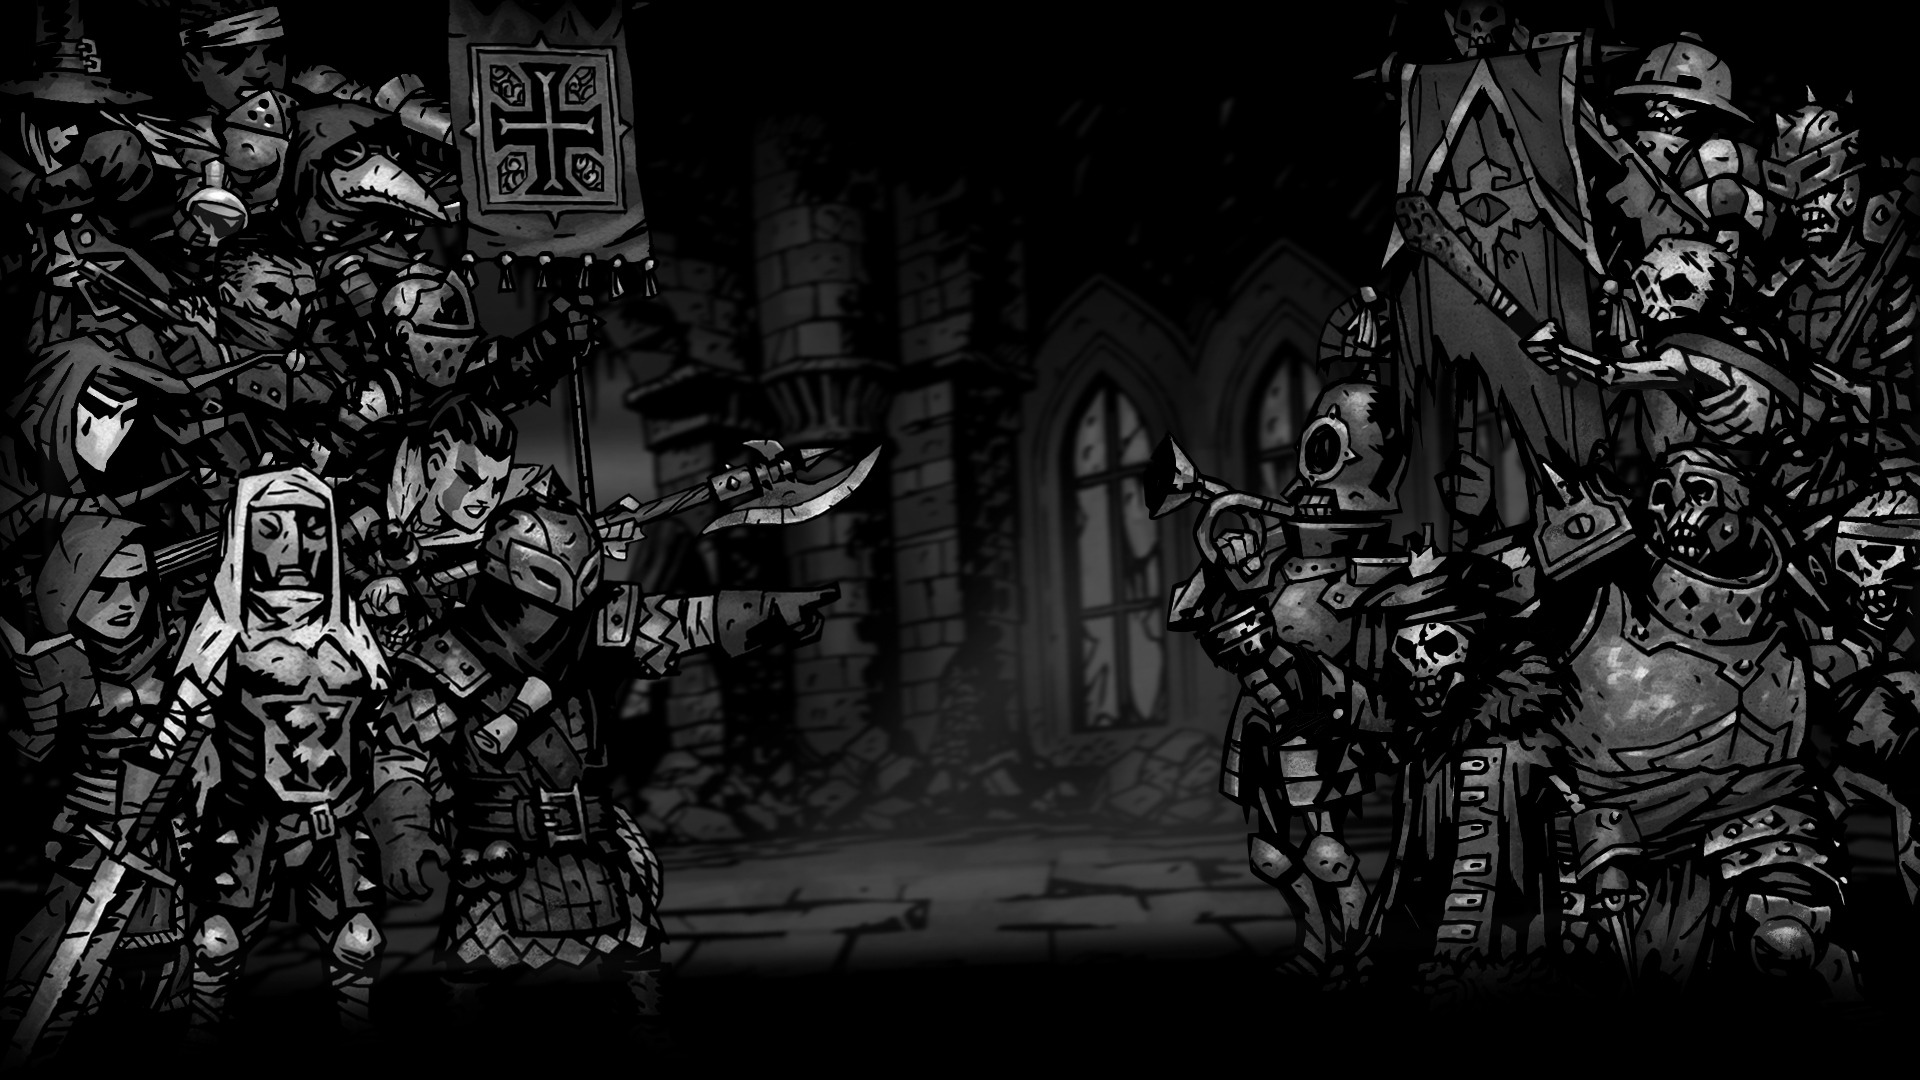
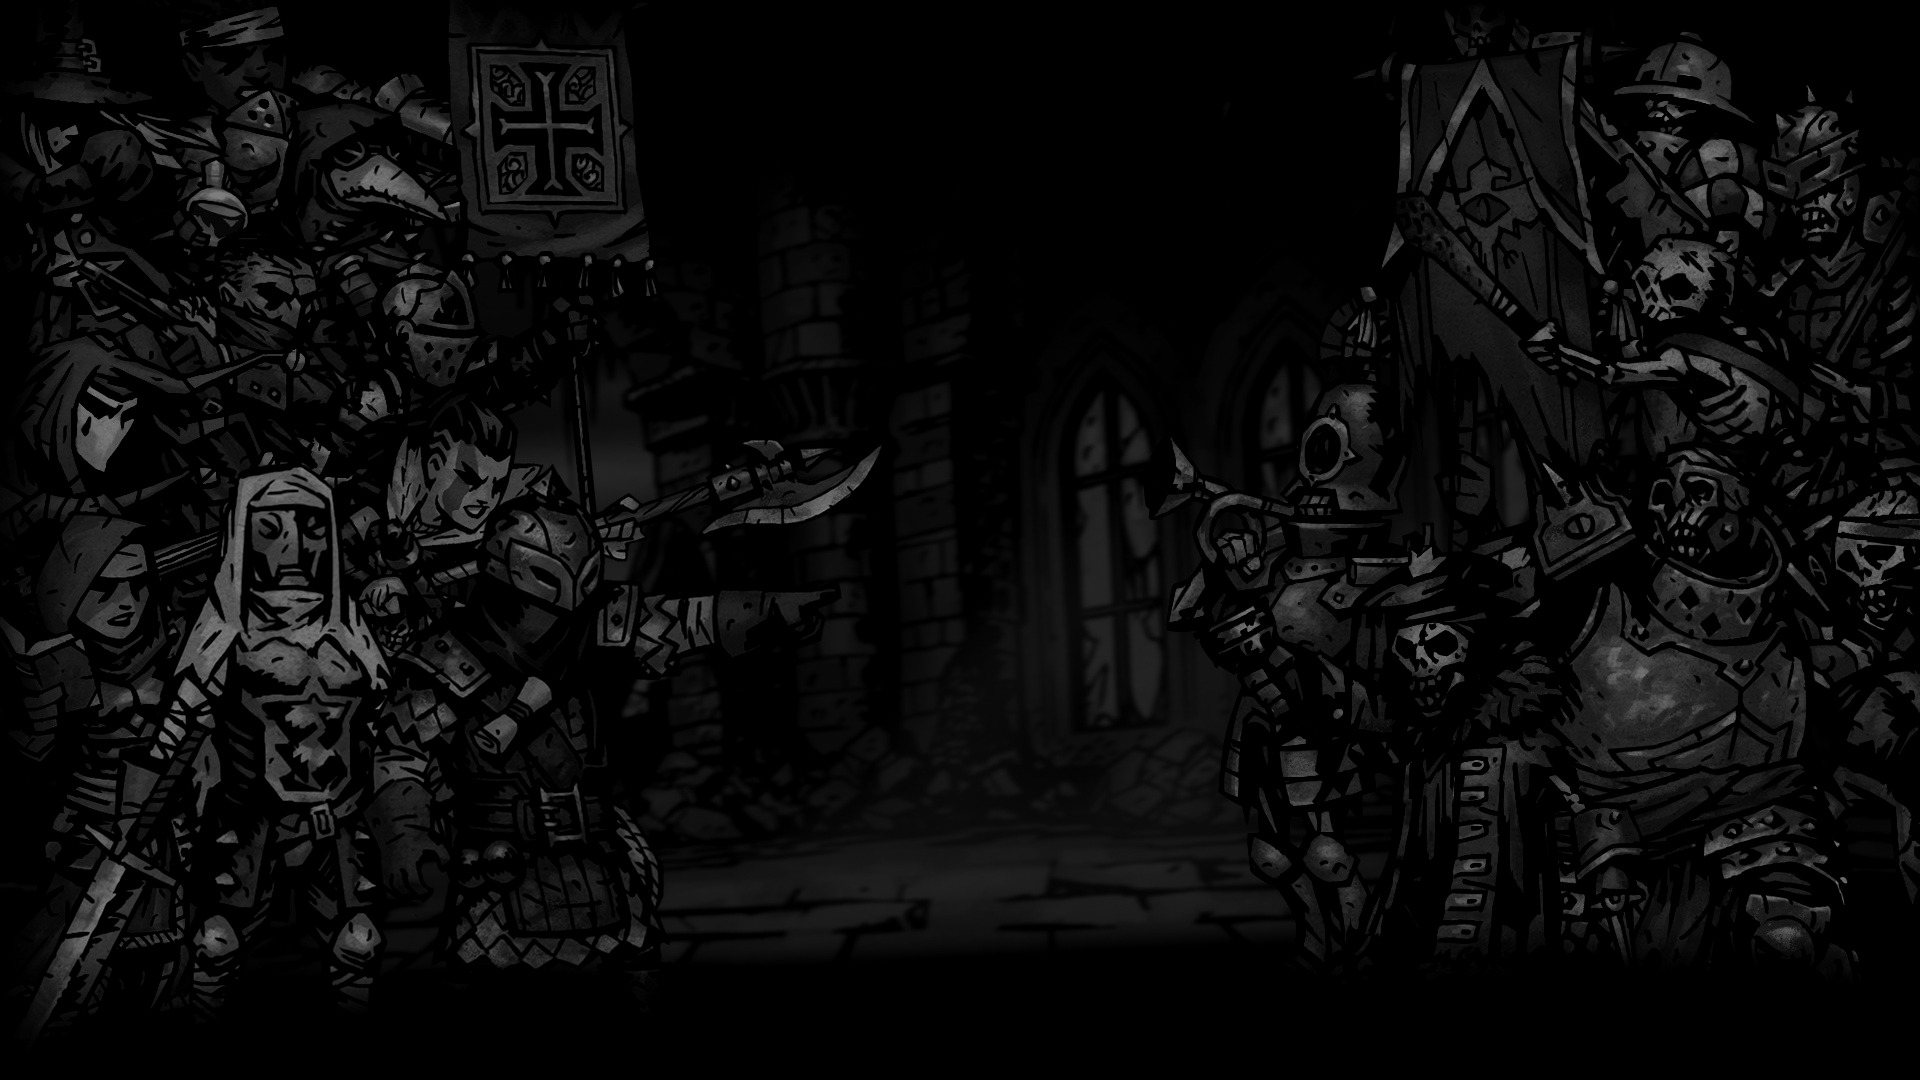
se arreglan contrastes de colores

diff --git a/darkest dungeon/styles/index.css b/darkest dungeon/styles/index.css
@@ -19,6 +19,9 @@ body{ /*se establece una imagen de fondo que esté estática respecto al scroll 
     background-color: powderblue;
     background-size: 100%;
 }
+div{
+    background-color:  rgba(0, 0, 0, 0.1);
+}
 iframe {
     max-width: 100%;
   }
@@ -127,7 +130,7 @@ ol {
 a:link, a:visited { /*Personalizar los links para que hagan mejor contraste con los oclores de fonde*/
     font-family: PlayFair N;
 	font-size: 16px;
-    color: #7700FF;
+    color: #3400ff;
     text-decoration: underline;
     text-align: justify;
     cursor: pointer;
